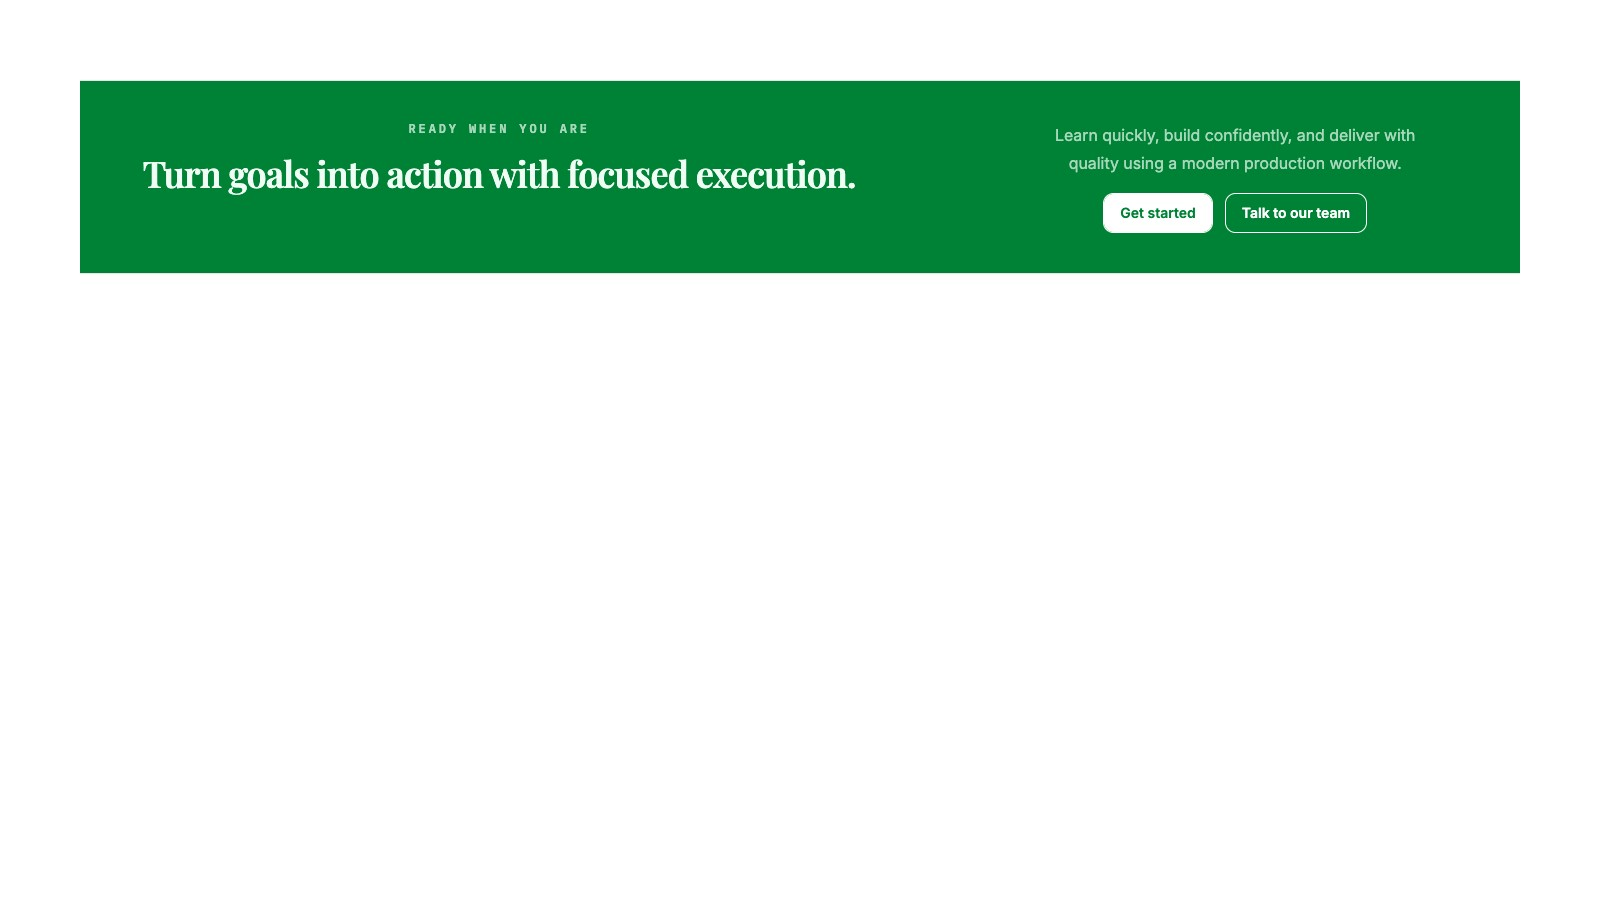
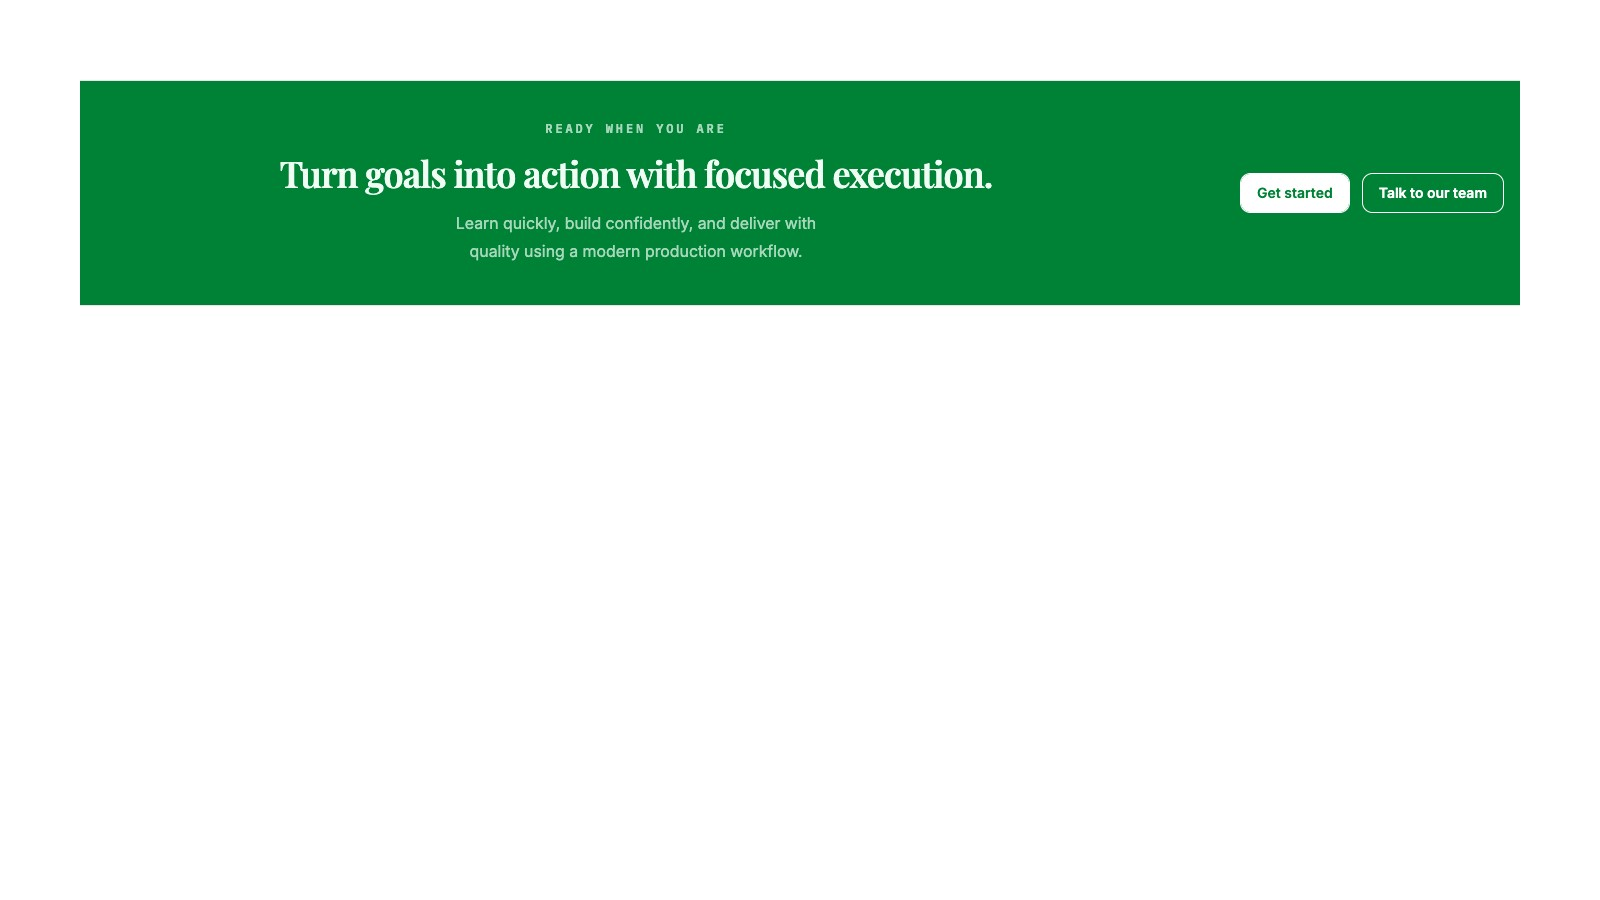
chore(cta): refresh action split artifacts

Changed region(s): [[0.0312, 0.1244, 0.9688, 0.3422]]

diff --git a/src/payload-types.ts b/src/payload-types.ts
@@ -640,14 +640,18 @@ export interface Cta39Block {
     border: 'none' | 'top' | 'bottom' | 'topAndBottom';
   };
   /**
-   * Stack content in one column or place supporting content beside the heading.
+   * Keep all content together, split copy from the heading, or place actions on the right.
    */
-  headerLayout: 'stacked' | 'split';
+  headerLayout: 'stacked' | 'split' | 'actionSplit';
   contentAlignment: 'left' | 'center' | 'right';
   /**
    * Position the description and actions relative to the heading.
    */
   splitContentAlignment?: ('top' | 'center' | 'bottom') | null;
+  /**
+   * Arrange the right-column actions in a row or a vertical stack on desktop.
+   */
+  actionLayout?: ('inline' | 'stacked') | null;
   size: 'none' | 'compact' | 'default' | 'comfortable';
   id?: string | null;
   blockName?: string | null;
@@ -5783,6 +5787,7 @@ export interface Cta39BlockSelect<T extends boolean = true> {
   headerLayout?: T;
   contentAlignment?: T;
   splitContentAlignment?: T;
+  actionLayout?: T;
   size?: T;
   id?: T;
   blockName?: T;

diff --git a/src/block-thumbnails/fixtures.tsx b/src/block-thumbnails/fixtures.tsx
@@ -625,11 +625,11 @@ export const blockThumbnailFixtures = {
         },
       ]}
       appearance={{ background: 'brand', border: 'topAndBottom' }}
+      actionLayout="inline"
       description="Learn quickly, build confidently, and deliver with quality using a modern production workflow."
       eyebrow="Ready when you are"
-      headerLayout="split"
+      headerLayout="actionSplit"
       size="compact"
-      splitContentAlignment="center"
       title="Turn goals into action with focused execution."
     />
   ),
